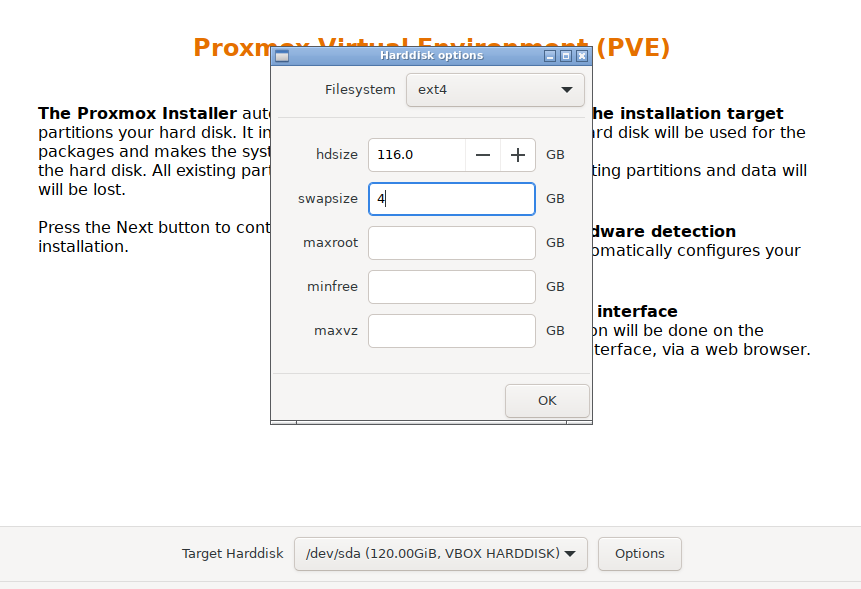
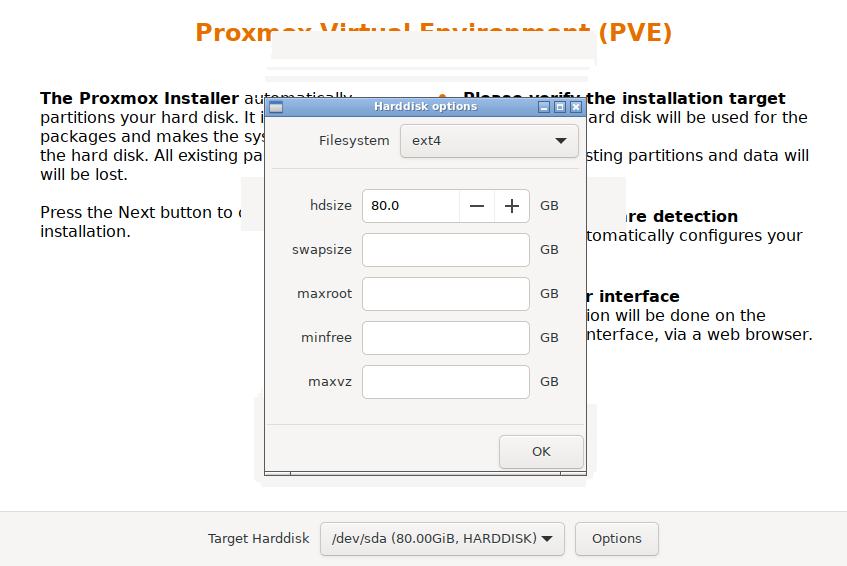
S04.1:Cambios y mejoras instalacion Proxmox

diff --git a/docs/03-instalacion-proxmox.md b/docs/03-instalacion-proxmox.md
@@ -45,6 +45,23 @@ Ahora comprobaremos que podemos activar la virtualizacion anidada en nuestra maq
 Tambien deberemos tener activada otra opcion llamada "Hardware Virtualization" para poder tener un mejor rendimento de virtualizacion en nuestra maquina virtual. En mi caso, puede activar esta opcion sin problema
 ![virthardware-vm](../evidencias/capturas-o-salidas/03-instalacion-proxmox/08-Virtualizacion-hardware-maquina.png)]
 
+### Otras configuraciones y mejoras para la VM
+Ahora nos fijaremos en otras mejoras que podemos aplicar a nuestra maquina de Proxmox.
+Primero activaremos la opcion PAE/NX
+![mejoras-vm](../evidencias/capturas-o-salidas/03-instalacion-proxmox/07-Virtualizacion-anidada-maquina.png)
+
+Luego cambiaremos la paravirtualizacion de la predeterminada a KVM para mejor funcionamiento de la virtualizacion que albergara nuestra maquina de Proxmox
+![mejoras-vm](../evidencias/capturas-o-salidas/03-instalacion-proxmox/14-Mejora-virtualizacion-PAENX.png)
+
+Despues, cambiaremos la interfaz de discos de SATA a virtioscsi y le indicaremos a esa misma interfaz que utilice la cache del I/O anfitrion
+![mejoras-vm](../evidencias/capturas-o-salidas/03-instalacion-proxmox/15-Mejora-discos-virtioscsi.png)
+
+Y por ultimo, cambiaremos la configuracion anterior de disco de 120GBs dinamico; por uno de 80GBs fijo
+![mejoras-vm](../evidencias/capturas-o-salidas/03-instalacion-proxmox/16-Cambio-disco-Proxmox.png)
+![mejoras-vm](../evidencias/capturas-o-salidas/03-instalacion-proxmox/17-Asignacion-nuevo-disco-Proxmox.png)
+
+(Yo indique que fuera Unidad de estado solido para mayor velocidad del disco)
+
 ### Instalacion Proxmox
 Al tener ya todo configurado perfectamente, inciaremos la instalacion de proxmox. Primero indicaremos el disco donde instalaremos Proxmox (en nuestro caso, el VDI que creamos antes)
 ![disco-instalacion](../evidencias/capturas-o-salidas/03-instalacion-proxmox/09-Disco-instalacion-Proxmox.png)
@@ -69,9 +86,13 @@ Por ultimo, comprobaremos que mediante la IP que acabamos de configurar podemos 
 **Configuracion de red**
 ```bash
 nano /etc/network/interfaces/
+systemctl restart networking
 ```
 
 ## Incidencias
 No llego a ocurrir ninguna incidencia durante la instalacion
+
+## Conclusion
+Se tuvo que cambiar el disco antiguo por uno nuevo, debido a que crear un disco de 120GBs fijos era demasiado excesivo
 
 [Volver al indice](../README.md)

diff --git a/docs/00-bitacora.md b/docs/00-bitacora.md
@@ -39,6 +39,15 @@ las evidencias utiles; evita frases generales como "he trabajado en Proxmox".
 - Pruebas y resultados: Se probo que se pudiera acceder al Proxmox desde la web y el resultado fue exitoso.
 - Documentos o evidencias: [Instalacion de Proxmox](03-instalacion-proxmox.md).
 - Incidencias y solucion o estado pendiente: no hubo ninguna incidencia.
+- Siguiente paso: mejoras y cambios de instalacion Laboratorio Proxmox 
+
+## Sesion 04.1 - 10/11/26
+- Objetivo: mejoras y cambios para instalacion Laboratorio Proxmox.
+- Acciones realizadas: se realizaron mejoras y cambios en nuestra VM de Proxmox como: activar PAE/NX, KVM, cambiar interfaz sata a SCSI.
+- Decisiones y motivos: Se realizo estos cambios para un mejor funcionamiento de nuestra VM.
+- Pruebas y resultados: En ciertos aspectos, se nota una mejora bastante buena.
+- Documentos o evidencias: [Instalacion de Proxmox](03-instalacion-proxmox.md) (se indica tanto la configuracion antigua como los cambios y mejoras).
+- Incidencias y solucion o estado pendiente: no hubo ninguna incidencia.
 - Siguiente paso: plantilla de Linux.
 
 ## Sesion 05 - 
